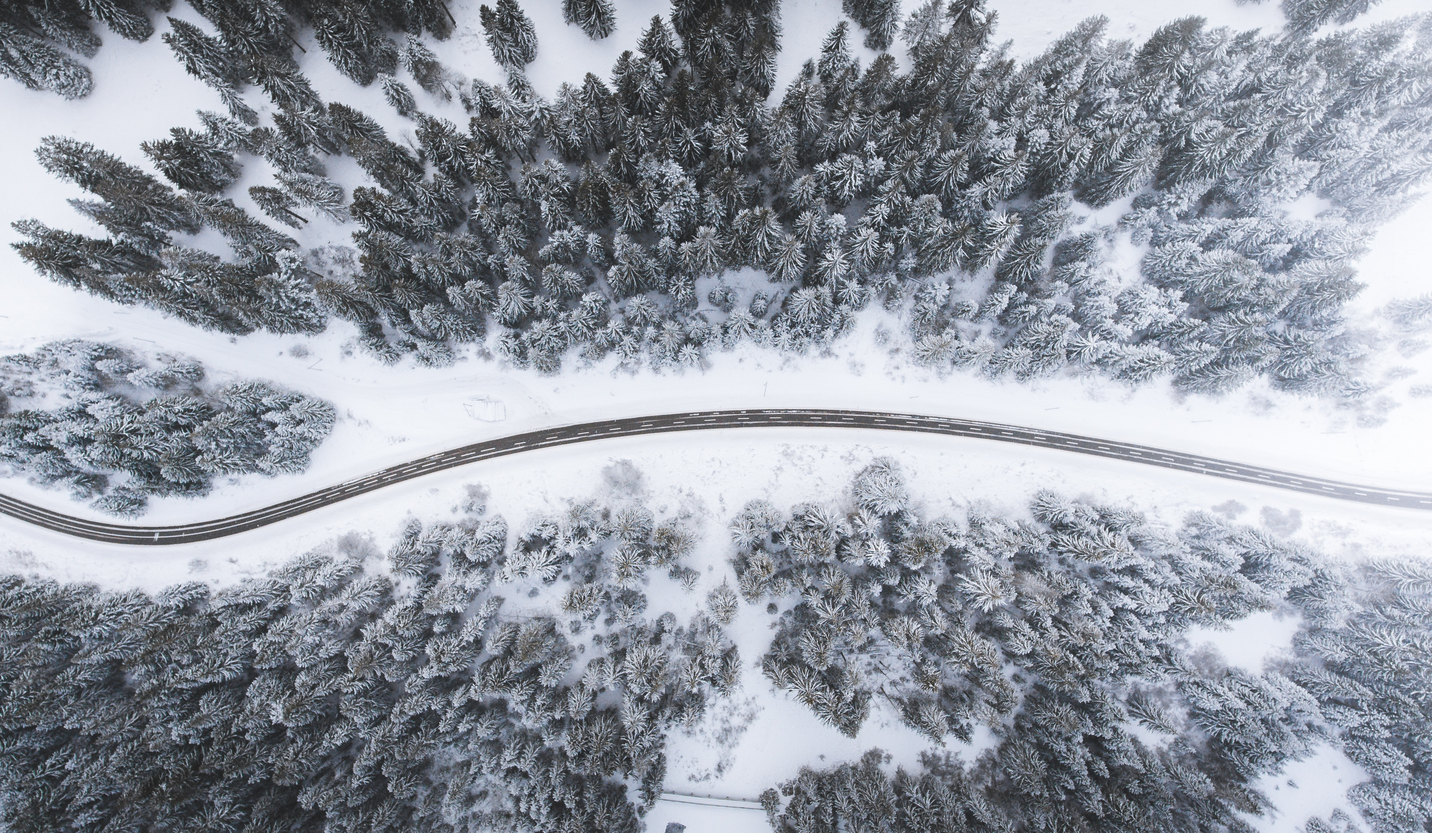
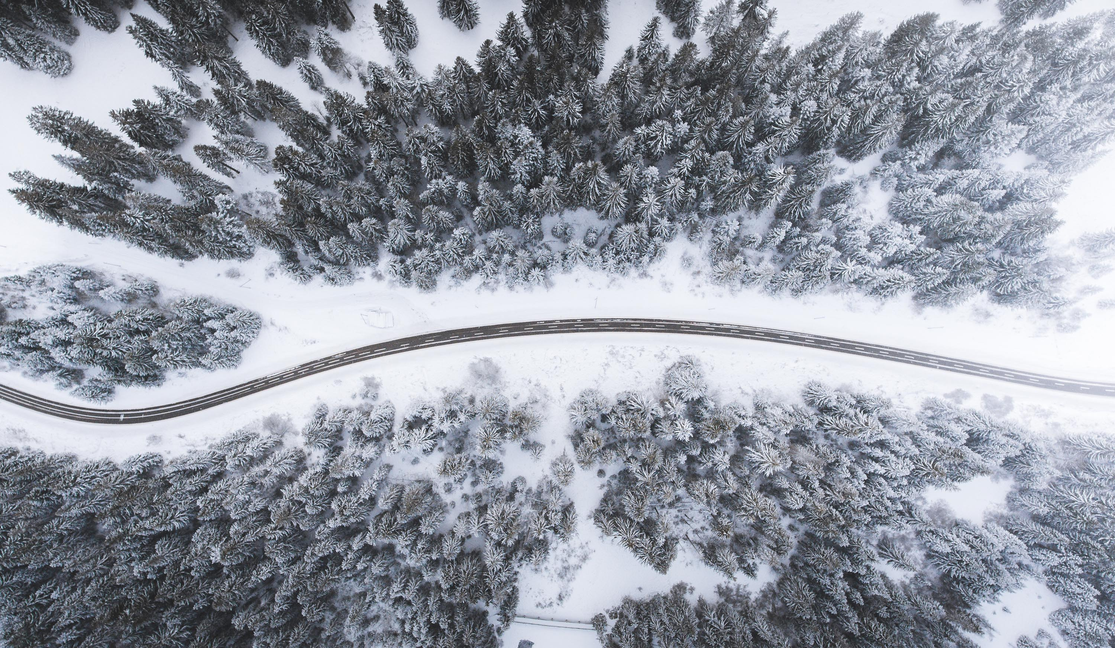
Compressed background image and tweaked button styling

diff --git a/styles/build/styles.css b/styles/build/styles.css
@@ -177,7 +177,7 @@ body {
 	border-radius: 22px;
 	text-transform: uppercase;
 	letter-spacing: 0.375em;
-	border: solid 4px rgba(255,255,255,0.8);
+	border: solid 2px rgba(255,255,255,0.8);
 	-webkit-transition: all 0.3s;
 	transition: all 0.3s;	
 }
@@ -194,10 +194,10 @@ body {
 	    -ms-flex: 0 0 auto;
 	        flex: 0 0 auto;
 	border: none;
-	border-radius: 30% 0 0 30%;
-	border: solid 2px #fff;
-	padding: 0.5em 1em;
-	width: 60px;
+	border-radius: 45% 0 0 45%;
+	border: solid 1px #fff;
+	padding: 0.5em 0em 0.5em 0.25em;
+	width: 50px;
 	font-size: 0.875rem;
 	-webkit-transition: all 0.3s;
 	transition: all 0.3s;
@@ -216,13 +216,13 @@ body {
 	    -ms-flex: 0 0 auto;
 	        flex: 0 0 auto;
 	border: none;
-	border-radius: 0 30% 30% 0;
-	border: solid 2px #fff;
-	padding: 0.5em 1em;
+	border-radius: 0 45% 45% 0;
+	border: solid 1px #fff;
+	padding: 0.5em 0.25em 0.5em 0em;
 	font-size: 0.875rem;
 	-webkit-transition: all 0.3s;
 	transition: all 0.3s;
-	width: 60px;	
+	width: 50px;	
 }
 
 .btn-adjust--plus-five:hover {
@@ -238,13 +238,14 @@ body {
 	    -ms-flex: 0 0 auto;
 	        flex: 0 0 auto;
 	border: none;
-	border: solid 2px #fff;
+	border: solid 1px #fff;
 	padding: 0.5em 1em ;
 	font-size: 1rem;
 	margin: 0 10px;
 	line-height: 0.5em;
 	-webkit-transition: all 0.3s;
 	transition: all 0.3s;
+	width: 45px;
 	}
 
 .btn-adjust--minus-one:hover, .btn-adjust--plus-one:hover {

diff --git a/styles/modules/_buttons.css b/styles/modules/_buttons.css
@@ -14,7 +14,7 @@
 	border-radius: 22px;
 	text-transform: uppercase;
 	letter-spacing: 0.375em;
-	border: solid 4px rgba(255,255,255,0.8);
+	border: solid 2px rgba(255,255,255,0.8);
 	transition: all 0.3s;
 	&:hover {
 		box-shadow: 2px 2px 20px 2px rgba(255,255,255,0.5);
@@ -28,10 +28,10 @@
 	font-weight: bold;
 	flex: 0 0 auto;
 	border: none;
-	border-radius: 30% 0 0 30%;
-	border: solid 2px #fff;
-	padding: 0.5em 1em;
-	width: 60px;
+	border-radius: 45% 0 0 45%;
+	border: solid 1px #fff;
+	padding: 0.5em 0em 0.5em 0.25em;
+	width: 50px;
 	font-size: 0.875rem;
 	transition: all 0.3s;
 	&:hover {
@@ -46,12 +46,12 @@
 	font-weight: bold;
 	flex: 0 0 auto;
 	border: none;
-	border-radius: 0 30% 30% 0;
-	border: solid 2px #fff;
-	padding: 0.5em 1em;
+	border-radius: 0 45% 45% 0;
+	border: solid 1px #fff;
+	padding: 0.5em 0.25em 0.5em 0em;
 	font-size: 0.875rem;
 	transition: all 0.3s;
-	width: 60px;
+	width: 50px;
 	&:hover {
 		box-shadow: 2px 2px 20px 2px rgba(255,255,255,0.5);
 	}	
@@ -64,12 +64,13 @@
 	font-weight: bold;
 	flex: 0 0 auto;
 	border: none;
-	border: solid 2px #fff;
+	border: solid 1px #fff;
 	padding: 0.5em 1em ;
 	font-size: 1rem;
 	margin: 0 10px;
 	line-height: 0.5em;
 	transition: all 0.3s;
+	width: 45px;
 	&:hover {
 		box-shadow: 2px 2px 20px 2px rgba(255,255,255,0.5);
 	}

diff --git a/styles/modules/_background.css b/styles/modules/_background.css
@@ -18,3 +18,4 @@ body {
 	height: 100vh;
 	width: 100vw;
 	}
+
